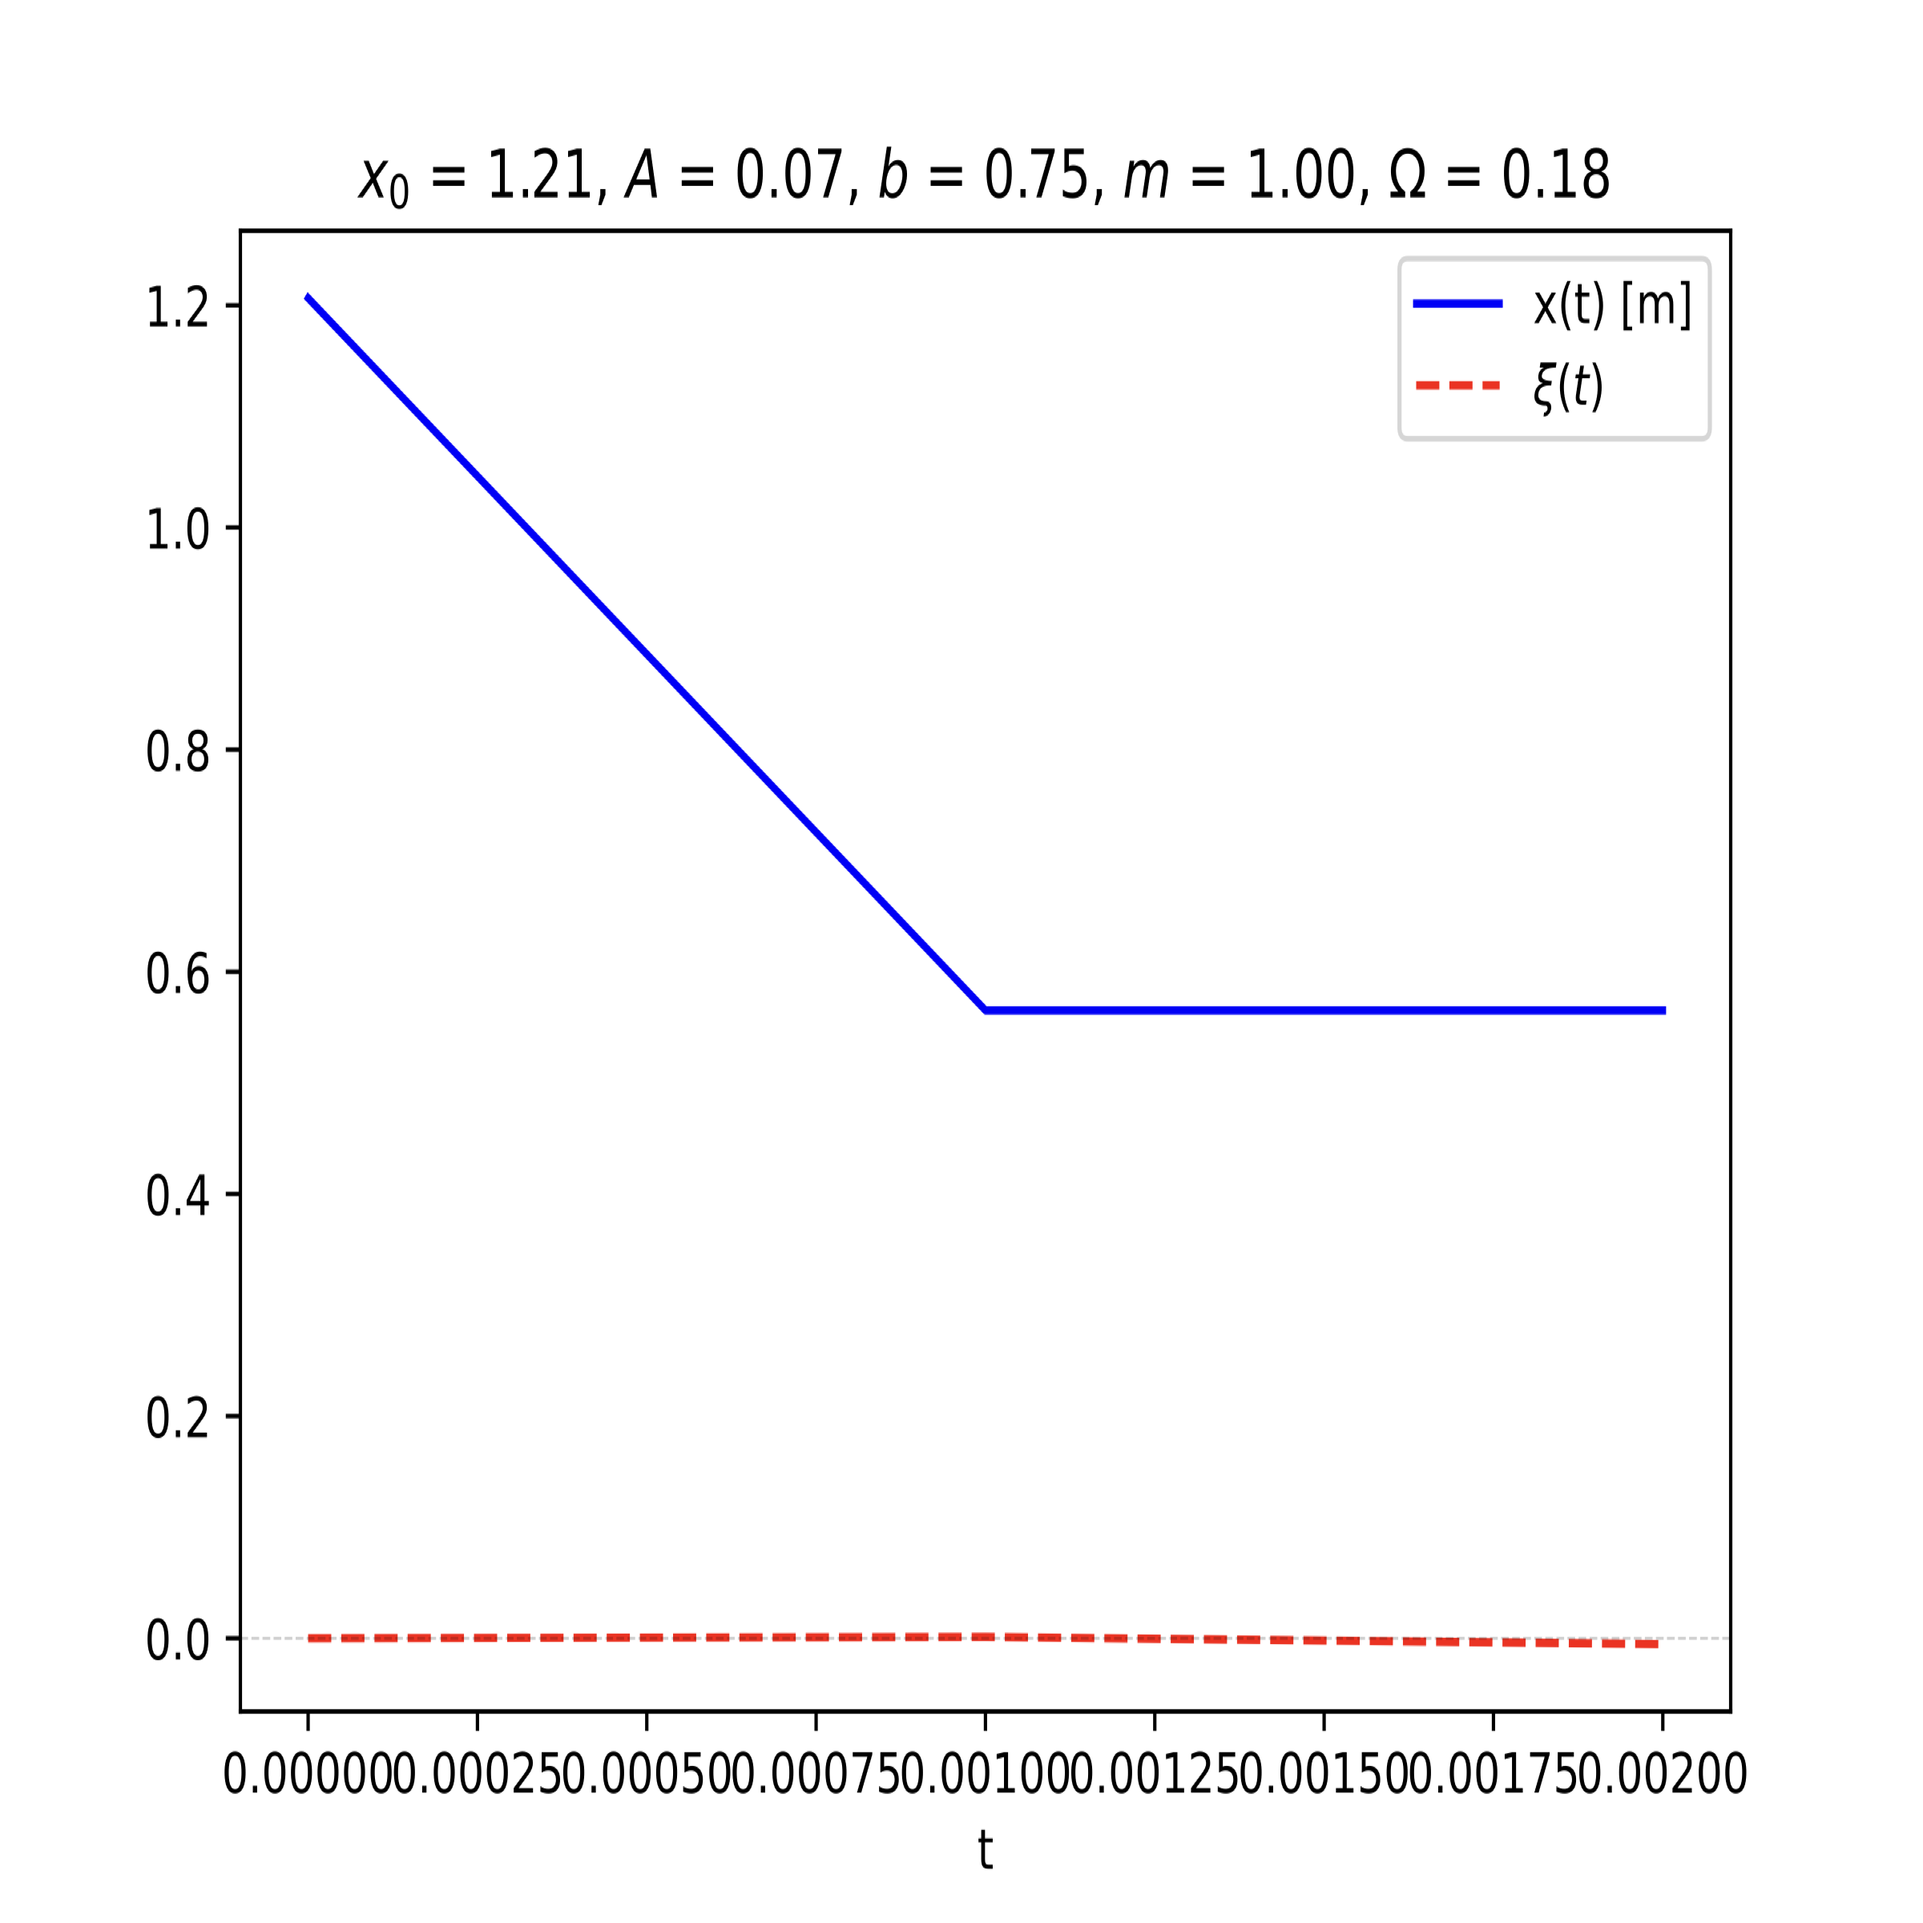
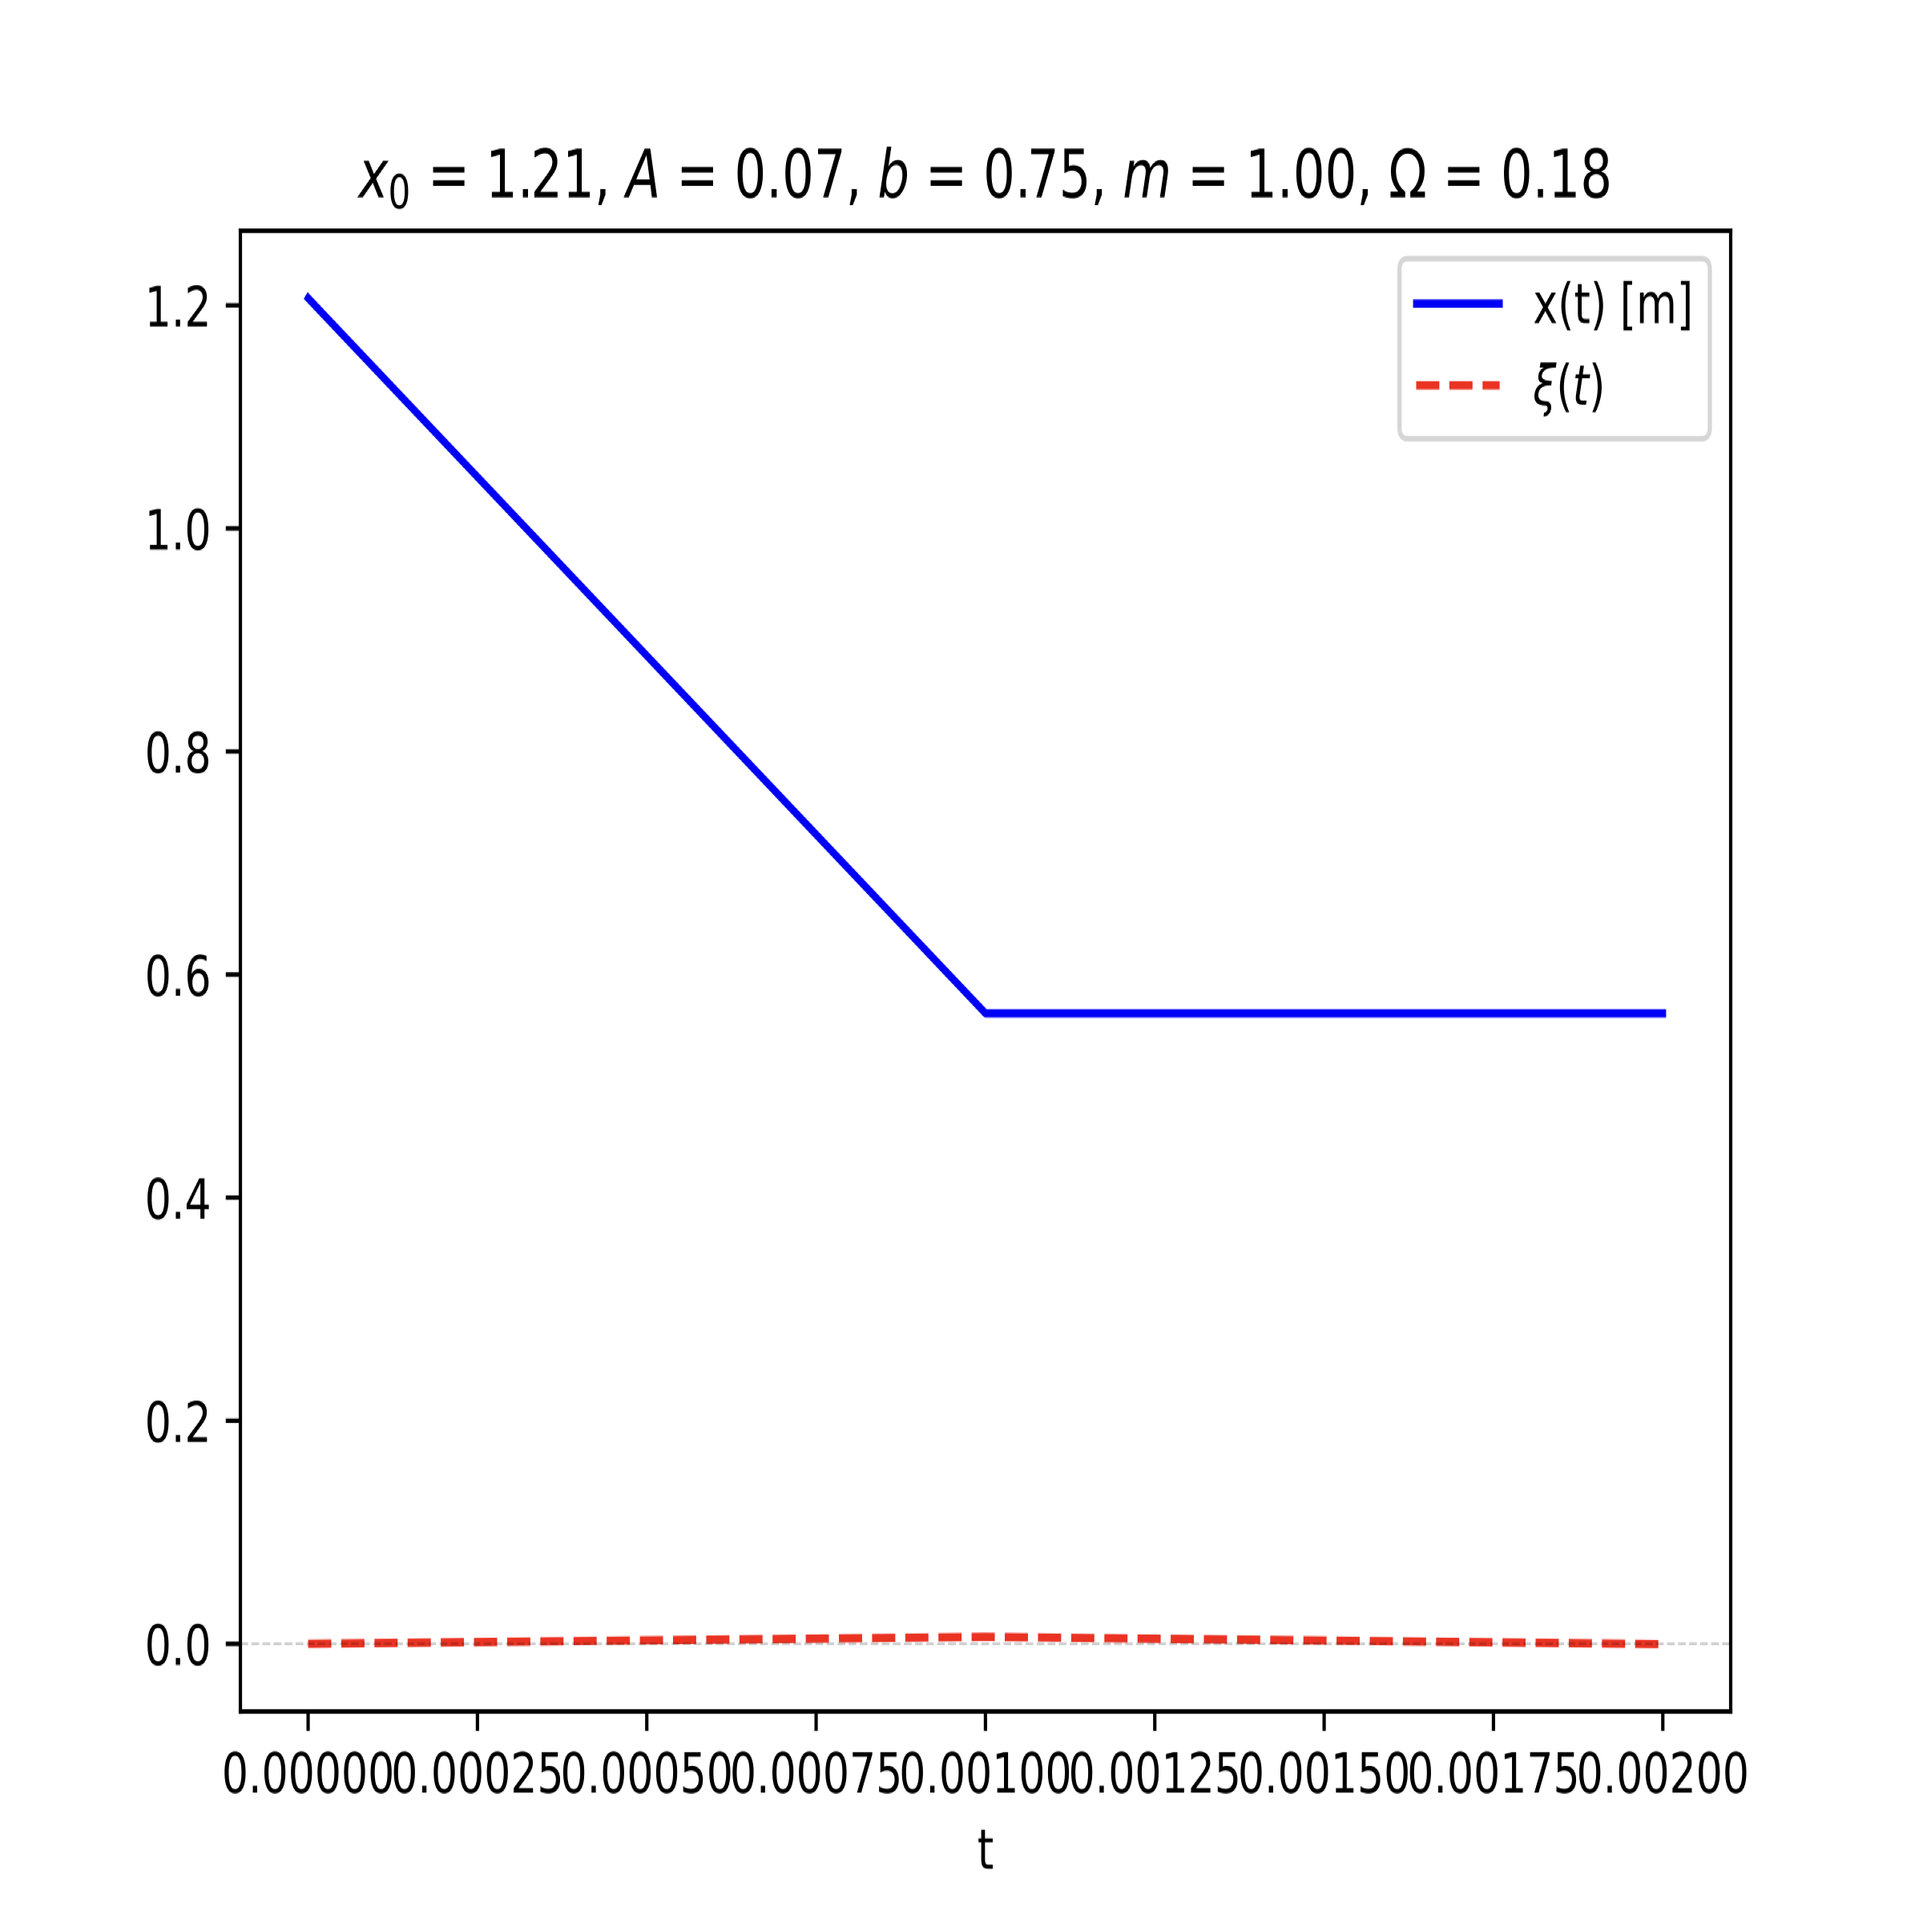
tried again to control -> failed -> updating weights to try again next time!

diff --git a/EdwardF/scripts/LearnInvertedPenulumPDE.py b/EdwardF/scripts/LearnInvertedPenulumPDE.py
@@ -127,8 +127,8 @@ def master_func_learn_ivp_pde(m = 1.0, Omega = 0.18, A = 1.0, b = 0.75, A_sol = 
         return (Omega**2 * x) - (2 * A*b * np.cosh(b * (x))**(-2) * np.tanh(b * (x)))
 
     if loss_option == "before":
-        smoothness_penalty_factor = 1e-5 # penalty for lack of smoothness of xi
-        time_penalty_factor = 1e-5 #penalty for taking longer
+        smoothness_penalty_factor = 1e-7 # penalty for lack of smoothness of xi
+        time_penalty_factor = 1e-10 #penalty for taking longer
         velocity_penalty = 1e-5 #penalty for max(abs(v))
         xi_penalty = 1e-5 #penalty for max(abs(xi))
     else:
@@ -1447,11 +1447,11 @@ if __name__ == "__main__":
     "../NeuralNetworkData/xi_model_IC_2_point_7615_1_point_0_0_point_75_1_point_0_0_point_18_pde_.pth", \
     "xi_model_IC_2_point_979229_1_point_0_0_point_760417_1_point_0_0_point_180833_Variational_.pth", \
     "../NeuralNetworkData/xi_model_IC_1_point_227_0_point_1_1_1_point_0_0_point_2_pde_.pth", \
-    "../NeuralNetworkData/xi_model_IC_1_point_2065_0_point_075_0_point_75_1_point_0_0_point_18_pde_.pth")[3]
+    "../NeuralNetworkData/xi_model_IC_1_point_2065_0_point_075_0_point_75_1_point_0_0_point_18_pde_.pth")[-1]
     ExtPotA = (1.0, 0.2, 0.1, 0.075)[3]
     ExtPotb = (0.75, 1)[0]
     ExtPotΩ = (0.18, 0.2)[0]
-    master_func_learn_ivp_pde(m = 1.0, Omega = ExtPotΩ, A = ExtPotA, b = ExtPotb, A_sol = ExtPotb, w_sol = 0.5, load_model = True, base_model = base_model, no_print = False, get_model_loss_value = False, optimize_A_b_Omega_m = False, optimize_A_b_Omega_m_iterations = np.inf, simulate_only = {"simulate_only": False, "xStart": 0, "store mass values": False}, T = 10, v_start = 0.0, interpolate = False, add_kick = False, movie_x_lims = None, movie_y_lims = None, use_Variational_Potential = False, automate = False, produceInverse = False, saveLibTorch = True, useLibTorch = True, epsilon = 0.0, lrScheduler = False, learning_rate = 1e-4, weight_decay = 1e-4, Algorithm = "brute force", fine = False, coolingRate = 0.999, anneal = False, initial_temp = 12, amsgrad = False, to_time = {"timed": False, "time": 3600}, to_loss = {"loss thresholded": True, "threshold": 1.4e-2}, loss_option = "before")
+    master_func_learn_ivp_pde(m = 1.0, Omega = ExtPotΩ, A = ExtPotA, b = ExtPotb, A_sol = ExtPotb, w_sol = 0.5, load_model = True, base_model = base_model, no_print = False, get_model_loss_value = False, optimize_A_b_Omega_m = False, optimize_A_b_Omega_m_iterations = np.inf, simulate_only = {"simulate_only": False, "xStart": 0, "store mass values": False}, T = 10, v_start = 0.0, interpolate = False, add_kick = False, movie_x_lims = None, movie_y_lims = None, use_Variational_Potential = False, automate = False, produceInverse = False, saveLibTorch = True, useLibTorch = True, epsilon = 0.0, lrScheduler = False, learning_rate = 1e-4, weight_decay = 1e-4, Algorithm = "brute force", fine = False, coolingRate = 0.992, anneal = False, initial_temp = 10, amsgrad = False, to_time = {"timed": False, "time": 3600}, to_loss = {"loss thresholded": True, "threshold": 1.4e-2}, loss_option = "before")
 #    master_func_learn_ivp_pde(load_model = True, T = 10, A = 0.1, b = 1)
 #    master_func_learn_ivp_pde(load_model = True, A = 0.1, b = 1, base_model = "xi_model_IC_0_point_787127_1_0_point_1_1_point_0_0_point_2_Paul_.pt", T = 10)
 #    master_func_learn_ivp_pde(load_model = True, A = 0.1, b = 1, base_model = "xi_model_IC_0_point_848359_0_point_067475_0_point_665792_1_point_0_0_point_2_.pt", T = 10)
